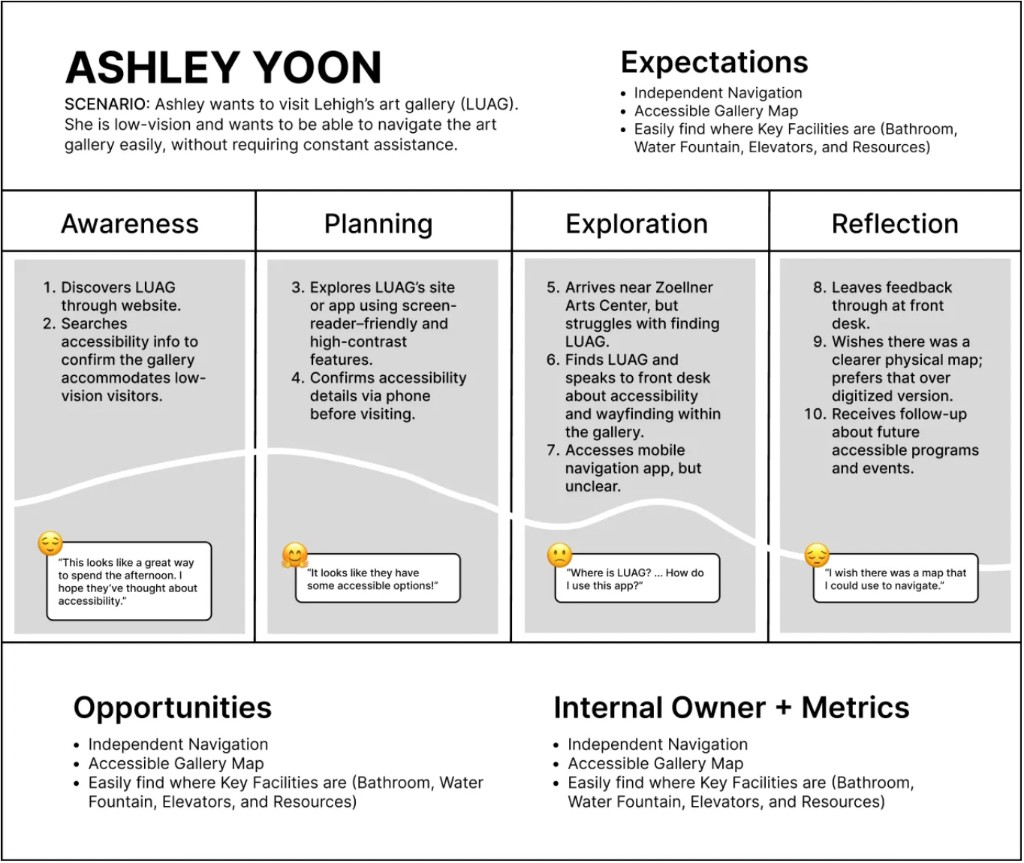
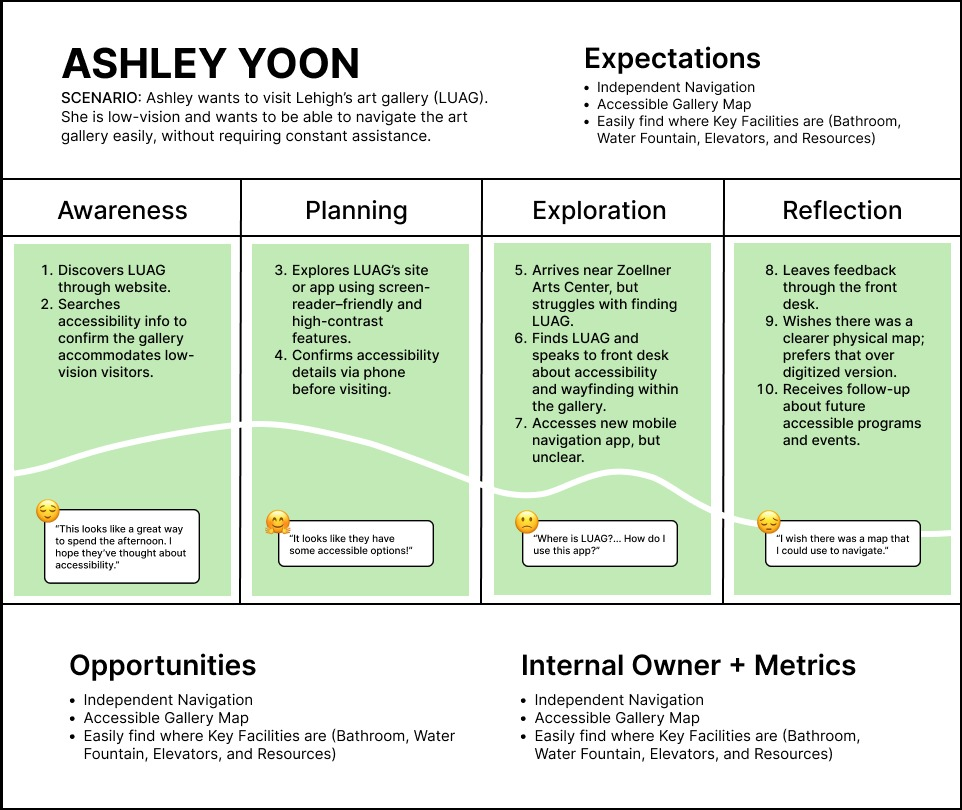
Luag

diff --git a/style.css b/style.css
@@ -63,7 +63,8 @@ body.custom-cursor-active .nabi-flipbook,
 body.custom-cursor-active .nabi-flipbook *,
 body.custom-cursor-active .nabi-flipbook-sheet,
 body.custom-cursor-active .nabi-flipbook-nav,
-body.custom-cursor-active .nabi-pdf-link {
+body.custom-cursor-active .nabi-pdf-link,
+body.custom-cursor-active .luag-medium-link {
   cursor: none !important;
 }
 
@@ -1265,6 +1266,35 @@ body.custom-cursor-active .nabi-pdf-link {
 
 .luag-intro .project-title {
   margin-bottom: 1.35rem;
+}
+
+.luag-intro-head {
+  display: grid;
+  grid-template-columns: minmax(0, 1.65fr) minmax(12rem, 0.9fr);
+  gap: clamp(0.5rem, 1.2vw, 1rem);
+  align-items: end;
+  width: 100%;
+  margin: 0 0 1.35rem;
+}
+
+.luag-intro-head-main {
+  display: flex;
+  align-items: flex-end;
+  justify-content: space-between;
+  gap: 0.85rem;
+  min-width: 0;
+  width: 100%;
+}
+
+.luag-intro-head-main .project-title {
+  margin: 0;
+  flex: 1 1 auto;
+  min-width: 0;
+}
+
+.luag-intro-head .luag-title-compass {
+  margin-left: 0;
+  justify-self: end;
 }
 
 .luag-title-row {
@@ -2841,6 +2871,11 @@ body.custom-cursor-active .nabi-flip-panel-close {
   .luag-hero-panel:hover img {
     transform: scale(1.06);
   }
+
+  .luag-media--signage:hover img,
+  .luag-final-media:hover img {
+    transform: scale(1.06);
+  }
 }
 
 .luag-hero-copy {
@@ -3047,6 +3082,7 @@ body.custom-cursor-active .nabi-flip-panel-close {
   width: 100%;
   height: auto;
   border-radius: inherit;
+  transition: transform 0.45s ease;
 }
 
 .luag-split {
@@ -3563,14 +3599,14 @@ body:has(.umami-page-doodle) .to-top {
   border: 0;
   background: transparent;
   overflow: hidden;
-  border-radius: 1em 0.35em 1.4em 0.55em / 0.9em 1.1em 0.45em 1.2em;
+  border-radius: 0;
 }
 
 .luag-research-media img {
   display: block;
   width: 100%;
   height: auto;
-  border-radius: inherit;
+  border-radius: 0;
 }
 
 .luag-research-copy .project-subhead {
@@ -3613,6 +3649,152 @@ body:has(.umami-page-doodle) .to-top {
   margin: 0 0 3.5rem;
   padding-bottom: 1.8cm;
   border-bottom: 3px solid #cfcfcf;
+}
+
+.luag-digital-pin {
+  margin: 0 0 2.5rem;
+  padding-bottom: 3.25rem;
+  border-bottom: 3px solid #cfcfcf;
+}
+
+.luag-3d-pin {
+  margin: 0 0 2.5rem;
+  padding-bottom: 3.25rem;
+  border-bottom: 3px solid #cfcfcf;
+}
+
+.luag-final-row {
+  display: grid;
+  grid-template-columns: 1fr 1fr;
+  gap: clamp(1rem, 2.5vw, 2rem);
+  align-items: start;
+  width: 100%;
+}
+
+.luag-final-media {
+  margin: 0;
+  width: 100%;
+  overflow: hidden;
+  border-radius: 1em 0.35em 1.4em 0.55em / 0.9em 1.1em 0.45em 1.2em;
+}
+
+.luag-final-media img {
+  display: block;
+  width: 100%;
+  height: auto;
+  border-radius: inherit;
+  transition: transform 0.45s ease;
+}
+
+.luag-final-copy.project-body {
+  width: 100%;
+  max-width: none;
+  margin: 1.25rem 0 0;
+  text-align: left;
+}
+
+.luag-final-copy .luag-list {
+  margin: 0;
+}
+
+.luag-takeaways-body.project-body {
+  width: 100%;
+  max-width: none;
+  margin: 0;
+  text-align: left;
+}
+
+.luag-takeaways-body p {
+  margin: 0 0 1rem;
+  color: var(--ink);
+}
+
+.luag-takeaways-body p:last-of-type {
+  margin-bottom: 0;
+}
+
+.luag-medium-link {
+  position: relative;
+  display: block;
+  margin: 0;
+  width: fit-content;
+  line-height: 0;
+  text-decoration: none;
+  border: none;
+  padding: 0;
+  flex: 0 0 auto;
+  align-self: flex-end;
+  transform: translateX(-2.5cm);
+}
+
+.luag-medium-icon {
+  display: block;
+  width: clamp(1.229rem, 2.05vw, 1.587rem);
+  height: auto;
+  object-fit: contain;
+  transition: transform 0.22s ease;
+  transform-origin: center center;
+}
+
+.luag-medium-link::after {
+  content: attr(data-label);
+  position: absolute;
+  right: calc(100% + 0.75rem);
+  left: auto;
+  top: 50%;
+  transform: translateY(-50%) translateX(0.2rem);
+  padding: 0.35rem 0.65rem;
+  border: none;
+  border-radius: 0.85rem;
+  background: var(--paper);
+  color: var(--purple);
+  font-family: "Be Vietnam Pro", sans-serif;
+  font-size: 0.72rem;
+  font-weight: 600;
+  letter-spacing: 0.02em;
+  line-height: 1.2;
+  white-space: nowrap;
+  pointer-events: none;
+  opacity: 0;
+  visibility: hidden;
+  transition: opacity 0.18s ease, transform 0.18s ease, visibility 0.18s;
+  z-index: 5;
+}
+
+.luag-medium-link::before {
+  content: "";
+  position: absolute;
+  right: calc(100% + 0.75rem - 0.42rem);
+  top: 50%;
+  width: 0.55rem;
+  height: 0.55rem;
+  border: none;
+  background: var(--paper);
+  transform: translateY(-50%) rotate(-45deg) translateX(0.2rem);
+  pointer-events: none;
+  opacity: 0;
+  visibility: hidden;
+  transition: opacity 0.18s ease, transform 0.18s ease, visibility 0.18s;
+  z-index: 6;
+}
+
+.luag-medium-link:hover .luag-medium-icon,
+.luag-medium-link:focus-visible .luag-medium-icon {
+  transform: scale(1.18);
+}
+
+.luag-medium-link:hover::after,
+.luag-medium-link:focus-visible::after {
+  opacity: 1;
+  visibility: visible;
+  transform: translateY(-50%) translateX(0);
+}
+
+.luag-medium-link:hover::before,
+.luag-medium-link:focus-visible::before {
+  opacity: 1;
+  visibility: visible;
+  transform: translateY(-50%) rotate(-45deg) translateX(0);
 }
 
 .luag-signage-stroke-icon {
@@ -5025,6 +5207,15 @@ body:has(.umami-page-doodle) .to-top {
     gap: 1.5rem;
   }
 
+  .luag-intro-head {
+    grid-template-columns: 1fr auto;
+    align-items: end;
+  }
+
+  .luag-intro-head-main {
+    flex-wrap: wrap;
+  }
+
   .luag-hero-panel {
     min-height: 0;
     width: 100%;
@@ -5192,6 +5383,11 @@ body:has(.umami-page-doodle) .to-top {
 
   .luag-digital-layout {
     flex-direction: column;
+    gap: 1.25rem;
+  }
+
+  .luag-final-row {
+    grid-template-columns: 1fr;
     gap: 1.25rem;
   }
 

diff --git a/luag.html b/luag.html
@@ -9,7 +9,7 @@
 <link rel="preconnect" href="https://fonts.googleapis.com">
 <link rel="preconnect" href="https://fonts.gstatic.com" crossorigin>
 <link href="https://fonts.googleapis.com/css2?family=Barrio&family=Be+Vietnam+Pro:wght@400;500;600;700&display=swap" rel="stylesheet">
-<link rel="stylesheet" href="style.css?v=luagdigital14">
+<link rel="stylesheet" href="style.css?v=luagfinal18">
 </head>
 <body class="be-vietnam-pro-regular project-page" id="pageTop">
 
@@ -27,8 +27,26 @@
 
     <section id="introduction" class="case-section luag-intro">
       <span class="project-index">My Work</span>
-      <div class="luag-title-row">
-        <h1 class="project-title barrio-regular">NAVIGATING LUAG <span class="project-year be-vietnam-pro-regular">(2025)</span></h1>
+      <div class="luag-intro-head">
+        <div class="luag-intro-head-main">
+          <h1 class="project-title barrio-regular">NAVIGATING LUAG <span class="project-year be-vietnam-pro-regular">(2025)</span></h1>
+          <a
+            class="luag-medium-link"
+            href="https://medium.com/@daynaha/ux-case-study-lehigh-university-art-gallery-luag-map-b32cfd93c510?sharedUserId=daynaha"
+            target="_blank"
+            rel="noopener noreferrer"
+            aria-label="See the Medium Article"
+            data-label="See the Medium Article"
+          >
+            <img
+              class="luag-medium-icon"
+              src="assets/medium-icon.png"
+              alt=""
+              width="354"
+              height="398"
+            >
+          </a>
+        </div>
         <div class="luag-title-compass" data-luag-compass aria-hidden="true">
           <img class="luag-title-compass-ring" src="assets/luag-compass-ring.png?v=5" alt="">
           <img class="luag-title-compass-needle" src="assets/luag-compass-needle.png?v=5" alt="">
@@ -93,7 +111,7 @@
       </div>
       <div class="luag-research-media">
         <img
-          src="assets/luag-user-research.jpg"
+          src="assets/luag-user-research.jpg?v=2"
           alt="Ashley Yoon user journey map — Awareness, Planning, Exploration, and Reflection"
         >
       </div>
@@ -126,7 +144,7 @@
       >
     </section>
 
-    <section id="final-deliverable" class="case-section luag-progress">
+    <section id="final-deliverable" class="case-section luag-progress luag-digital-pin">
       <h2 class="project-subhead barrio-regular">Progress: 2D Map</h2>
       <p class="project-index-tag project-index-tag--black luag-digital-label be-vietnam-pro-regular">Digital Work</p>
       <div class="luag-digital-layout">
@@ -150,9 +168,40 @@
       </div>
     </section>
 
+    <section id="progress-3d-map" class="case-section luag-progress luag-3d-pin">
+      <h2 class="project-subhead barrio-regular">Progress: 3D Map</h2>
+    </section>
+
+    <section id="luag-final-deliverable" class="case-section luag-progress">
+      <h2 class="project-subhead barrio-regular">Final Deliverable</h2>
+      <div class="luag-final-row">
+        <figure class="luag-final-media">
+          <img
+            src="assets/luag-final-main.jpg"
+            alt="Printed LUAG Main Gallery map cards stacked on a white surface"
+          >
+        </figure>
+        <figure class="luag-final-media">
+          <img
+            src="assets/luag-final-lower.jpg"
+            alt="Printed LUAG Lower Gallery map cards stacked on a green surface"
+          >
+        </figure>
+      </div>
+      <div class="project-body luag-final-copy">
+        <ul class="luag-list">
+          <li>A print map designed for both <span class="luag-em">clarity</span> and <span class="luag-em">style</span>, distributed near entrances</li>
+          <li>Directional signage using <span class="luag-em">consistent</span> and <span class="luag-em">clear typography</span>, also engaging Spanish-speaking users</li>
+          <li>A three-dimensional tactile floor model featuring <span class="luag-em">raised textures</span> and <span class="luag-em">Braille labels</span> to support low-vision visitors</li>
+        </ul>
+      </div>
+    </section>
+
     <section id="key-takeaways" class="case-section">
-      <div class="project-body">
+      <div class="project-body luag-takeaways-body">
         <h2 class="project-subhead barrio-regular">Key takeaways</h2>
+        <p>We are proud of how the final designs address accessibility and usability through deliberate, considered choices. Given more time and resources, we would have conducted user testing with low vision participants to further validate our work and found a more effective method for integrating Braille directly onto the visual map.</p>
+        <p>Ultimately, this project demonstrated how design can bridge <span class="luag-em">inclusion and experience</span>. Wayfinding is not just about directing people from one point to another; it shapes how visitors feel within a space and who feels welcome in it. We hope LUAG considers implementing a system like this to make every visitor's journey more intuitive and memorable from the very start.</p>
       </div>
     </section>
   </main>
